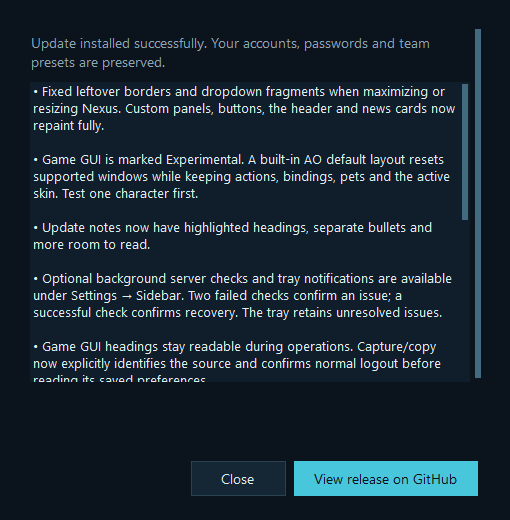
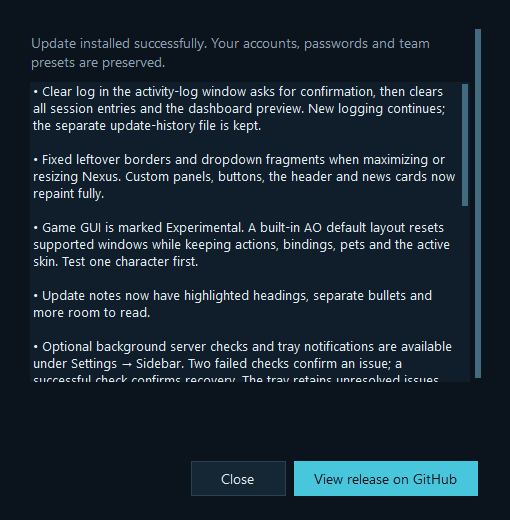
Add confirmed clearing of the session activity log

diff --git a/src/Launcher/LogViewer.cs b/src/Launcher/LogViewer.cs
@@ -20,6 +20,9 @@ namespace AOLauncher
         private readonly Timer refresh = new Timer { Interval = 150 };
         private string source = "";
         private string lastSearch = "";
+        private readonly Button clearLog = Theme.Button(T("Clear log…"));
+        internal Action ClearLogRequested;
+        internal Func<bool> ConfirmClearLog;
 
         internal LogViewer()
         {
@@ -33,7 +36,7 @@ namespace AOLauncher
             var layout = new TableLayoutPanel { Dock = DockStyle.Fill, Padding = new Padding(16), ColumnCount = 1, RowCount = 3 };
             layout.RowStyles.Add(new RowStyle(SizeType.Absolute, 44));
             layout.RowStyles.Add(new RowStyle(SizeType.Percent, 100));
-            layout.RowStyles.Add(new RowStyle(SizeType.Absolute, 30));
+            layout.RowStyles.Add(new RowStyle(SizeType.Absolute, 44));
             var toolbar = new TableLayoutPanel { Dock = DockStyle.Fill, Margin = Padding.Empty, ColumnCount = 3, RowCount = 1 };
             toolbar.ColumnStyles.Add(new ColumnStyle(SizeType.AutoSize));
             toolbar.ColumnStyles.Add(new ColumnStyle(SizeType.Percent, 100));
@@ -48,10 +51,12 @@ namespace AOLauncher
             var frame = new NexusPanel { Dock = DockStyle.Fill, Padding = new Padding(10), Margin = Padding.Empty, BackColor = TerminalBackground };
             output.AccessibleName = T("Activity log");
             frame.Controls.Add(SlimScrolling.Wrap(output));
-            var footer = new TableLayoutPanel { Dock = DockStyle.Fill, ColumnCount = 2, RowCount = 1, Margin = Padding.Empty };
-            footer.ColumnStyles.Add(new ColumnStyle(SizeType.Percent, 100)); footer.ColumnStyles.Add(new ColumnStyle(SizeType.AutoSize));
+            var footer = new TableLayoutPanel { Dock = DockStyle.Fill, ColumnCount = 3, RowCount = 1, Margin = Padding.Empty };
+            footer.ColumnStyles.Add(new ColumnStyle(SizeType.Percent, 100)); footer.ColumnStyles.Add(new ColumnStyle(SizeType.AutoSize)); footer.ColumnStyles.Add(new ColumnStyle(SizeType.AutoSize));
             follow.Text = T("Follow new entries"); follow.Margin = new Padding(8, 6, 0, 0);
             footer.Controls.Add(count, 0, 0); footer.Controls.Add(follow, 1, 0);
+            clearLog.Name = "clearActivityLog"; clearLog.Margin = new Padding(12, 6, 0, 0); clearLog.Enabled = false;
+            clearLog.Click += (sender, e) => ClearActivity(); footer.Controls.Add(clearLog, 2, 0);
             layout.Controls.Add(toolbar, 0, 0); layout.Controls.Add(frame, 0, 1); layout.Controls.Add(footer, 0, 2);
             Controls.Add(layout);
             search.TextChanged += (sender, e) => QueueRefresh();
@@ -61,6 +66,16 @@ namespace AOLauncher
         }
 
         internal void SetLogText(string text) { source = text ?? ""; QueueRefresh(); }
+        private void ClearActivity()
+        {
+            if (source.Length == 0) return;
+            bool confirmed = ConfirmClearLog != null ? ConfirmClearLog() : NexusMessageBox.Show(this,
+                T("Clear all activity log entries for this session, including entries hidden by the search? This cannot be undone. New activity will continue to appear. The separate update-history file is kept."),
+                T("Clear activity log?"), MessageBoxButtons.OKCancel, MessageBoxIcon.Question, MessageBoxDefaultButton.Button2) == DialogResult.OK;
+            if (!confirmed) return;
+            ClearLogRequested?.Invoke();
+            source = ""; search.Clear(); RefreshLog();
+        }
         internal void RefreshLanguage() { NexusStrings.Retranslate(this); RefreshLog(); }
         private void QueueRefresh() { if (!refresh.Enabled) refresh.Start(); }
         private void RefreshLog()
@@ -82,6 +97,7 @@ namespace AOLauncher
                 SendMessage(output.Handle, 0x00B6, IntPtr.Zero, new IntPtr(firstLine - currentLine));
             }
             count.Text = F("{0} of {1} log entries", matches.Length, all.Length);
+            clearLog.Enabled = source.Length > 0;
         }
         protected override bool ProcessCmdKey(ref Message msg, Keys keyData)
         {

diff --git a/src/Launcher/NexusStrings.cs b/src/Launcher/NexusStrings.cs
@@ -75,6 +75,9 @@ namespace AOLauncher
             { "TEAM SETUP", "HOLDSAMMENSÆTNING" },
             { "Team presets", "Team-presets" },
             { "Activity log", "Aktivitetslog" },
+            { "Clear log…", "Ryd log…" },
+            { "Clear activity log?", "Ryd aktivitetslog?" },
+            { "Clear all activity log entries for this session, including entries hidden by the search? This cannot be undone. New activity will continue to appear. The separate update-history file is kept.", "Ryd hele aktivitetsloggen for denne session, inklusive poster skjult af søgningen? Det kan ikke fortrydes. Ny aktivitet vises fortsat. Den separate fil med opdateringshistorik bevares." },
             { "Minimize to tray?", "Minimer til systembakken?" },
             { "Quit AO Nexus?", "Afslut AO Nexus?" },
             { "Nexus will keep running in the Windows system tray and disappear from the taskbar and Alt+Tab. Click its tray icon to return. Login activity continues.", "Nexus fortsætter i Windows-systembakken og skjules fra proceslinjen og Alt+Tab. Klik på bakkeikonet for at vende tilbage. Login-aktivitet fortsætter." },

diff --git a/src/Launcher/MainForm.cs b/src/Launcher/MainForm.cs
@@ -1888,10 +1888,19 @@ namespace AOLauncher
             if (logViewer == null || logViewer.IsDisposed)
             {
                 logViewer = new LogViewer();
+                logViewer.ClearLogRequested = ClearActivityLog;
                 logViewer.SetLogText(activityLog.ToString());
                 logViewer.Show(this);
             }
             else { if (logViewer.WindowState == FormWindowState.Minimized) logViewer.WindowState = FormWindowState.Normal; logViewer.Activate(); }
+        }
+
+        private void ClearActivityLog()
+        {
+            activityLog = new StringBuilder();
+            activityLogBytes = 0;
+            log.Clear();
+            if (logViewer != null && !logViewer.IsDisposed) logViewer.SetLogText("");
         }
 
         private void AppendLog(string message)

diff --git a/src/Launcher/Properties/AssemblyInfo.cs b/src/Launcher/Properties/AssemblyInfo.cs
@@ -6,6 +6,6 @@ using System.Runtime.InteropServices;
 [assembly: AssemblyCompany("Luckyspawn")]
 [assembly: AssemblyCopyright("Enhanced by Luckyspawn")]
 [assembly: AssemblyProduct("AO Nexus")]
-[assembly: AssemblyVersion("1.1.3.0")]
-[assembly: AssemblyFileVersion("1.1.3.0")]
+[assembly: AssemblyVersion("1.1.4.0")]
+[assembly: AssemblyFileVersion("1.1.4.0")]
 [assembly: ComVisible(false)]

diff --git a/README.md b/README.md
@@ -2,15 +2,15 @@
 
 **A launcher for your accounts, characters and teams across Anarchy Online servers.**
 
-AO Nexus **v1.1.3** brings separate game installations, login servers, saved character selections and server news into one Windows app. It includes presets for Funcom AO, Project Rubi-Ka and AO Rebirth, and lets you add your own server entries.
+AO Nexus **v1.1.4** brings separate game installations, login servers, saved character selections and server news into one Windows app. It includes presets for Funcom AO, Project Rubi-Ka and AO Rebirth, and lets you add your own server entries.
 
 Based on [AOQuickLauncher](https://gitlab.com/never-knows-best/aoquicklauncher) by **never-knows-best and contributors**. Enhanced by **Luckyspawn**.
 
 [Download a release](https://github.com/RazRn/AO-Nexus/releases) · [Source repository](https://github.com/RazRn/AO-Nexus) · [Player guide](dist/README.txt)
 
-![AO Nexus dashboard with a saved team, accounts grouped by server, account details and server news](docs/images/published/launcher-overview-fa896240ed8885b2.png)
+![AO Nexus dashboard with a saved team, accounts grouped by server, account details and server news](docs/images/published/launcher-overview-2bad011c9747c386.png)
 
-Screenshots use example accounts and offline news fixtures, with no personal accounts or passwords. All guide screenshots were regenerated from v1.1.3.
+Screenshots use example accounts and offline news fixtures, with no personal accounts or passwords. All guide screenshots were regenerated from v1.1.4.
 
 ## What it does
 
@@ -54,7 +54,7 @@ AO Nexus launches supported Windows AO clients. It does not install or patch the
 
 Choose **Game GUI · Experimental** at the top of Nexus. Test one character first. The manager has separate **Layouts**, **Skins** and **Backups** tabs. Its character selection is independent of your login selection and team presets.
 
-![Layout templates and an independent character selection for applying or rolling out a template](docs/images/published/gui-layouts-0e3f3e3aee81dd21.png)
+![Layout templates and an independent character selection for applying or rolling out a template](docs/images/published/gui-layouts-162f595a576102a1.png)
 
 Capture a saved setup from a character or copy directly from one character to others. **Window layout** is selected initially; **Hotbars**, **Key bindings** and **Pet names** are optional. Hotbar actions may reference items or nanos that another character does not have. **Roll out to all…** reviews all configured target characters before applying the chosen components.
 
@@ -70,7 +70,7 @@ For a reset, select the built-in **AO default layout**, select characters, then 
 
 Skins affect a shared installation's preferences. Select **Default**, import a complete skin ZIP, or download a Notum Dovvetech/Darktech theme from the author's published sources. Choose the correct classic/new-engine variant. Downloads install separate folders and do not activate the skin until you choose **Apply skin**. Skin rollout copies to each configured preference installation once. The skin archives are not bundled in Nexus.
 
-![Backup manager for character layouts and installation skin selection](docs/images/published/gui-backups-14c7e39c44d91709.png)
+![Backup manager for character layouts and installation skin selection](docs/images/published/gui-backups-2cc32f922b22936f.png)
 
 Nexus asks before relogging affected online clients, requests `/quit`, waits for actual exit, backs up the changed data and restarts the identified clients after success. It never forces game processes closed. Character layouts affect the selected characters; shared skin changes can require other clients to relog. Unknown clients must be closed manually when Nexus cannot rule them out safely. Failed batches attempt to restore earlier changes and report any recovery failures. Keep affected clients closed during the file operation.
 
@@ -171,7 +171,7 @@ Open **Settings → Accounts → Manage login servers…** to rename servers, ed
 
 ![Login server editor showing connection settings, simultaneous account and character limits, and total character slots](docs/images/published/server-settings-515e6f4b4c4ee421.png)
 
-These are the defaults in the **v1.1.3 source**, rather than a live statement of each server's current rules or availability. Existing profiles can retain their saved values.
+These are the defaults in the **v1.1.4 source**, rather than a live statement of each server's current rules or availability. Existing profiles can retain their saved values.
 
 | Server preset | Login address | Max. accounts | Chars per account | Character slots |
 | --- | --- | ---: | ---: | ---: |
@@ -249,7 +249,7 @@ The game handles its normal logout countdown. Combat, zoning, movement or cancel
 
 **Existing game windows need one normal restart through v1.0.15 or later** to enable quit control. The same applies to a client opened through **Create new char**: save/import the character and start it normally once. Unsupported or untracked clients are skipped with an explanation. AOSharp is not required. Closing Nexus itself still leaves all game windows open.
 
-For implementation details and test coverage, see [Quit control](docs/Camp-Control.md). See [What's new in v1.1.3](docs/Whats-New-1.1.3.md) for the English feature list.
+For implementation details and test coverage, see [Quit control](docs/Camp-Control.md). See [What's new in v1.1.4](docs/Whats-New-1.1.4.md) for the English feature list.
 
 ## Create a new character
 
@@ -308,7 +308,7 @@ Use **Refresh** to fetch again; automatic refresh runs every 15 minutes while Se
 
 **Server health** is independently optional in Settings. When both are enabled they share tabs on the right; turning both off gives the account list more space. Choose the displayed server to see login, world/zone, chat and official-report checks. It refreshes every 60 seconds while visible by default. In Settings → Sidebar, enable background checks for all selected servers, including while minimized or on another tab. Optional tray notifications enable background checks and report confirmed issues and recovery; the tray retains unresolved issue status. Two failed checks confirm an issue (usually 1–2 minutes); one positive check confirms recovery. Windows controls popup duration. There is a 15-second minimum between check batches. There is no manual Refresh button; one enabled server is shown as a plain name. **Reachable** means a TCP connection from your PC, not a successful game login. Missing checks or stale reports are **Unknown**. See [endpoints, sources and limitations](docs/Server-Health.md).
 
-![Server health with synthetic reachability and official-report examples](docs/images/published/server-health-2cefbd34265f4bd1.png)
+![Server health with synthetic reachability and official-report examples](docs/images/published/server-health-73b8e2cdda054e79.png)
 
 Settings are divided into four tabs:
 
@@ -328,9 +328,11 @@ Under **Settings → General → Language**, choose **Automatic (system language
 
 ### Activity log
 
-The compact terminal-style log uses a dark background and monospace green text. **Open log…** opens a resizable window that receives new entries while you use Nexus. Type in **Search** to filter lines by literal text, ignoring case; **Clear search** restores all entries. **Ctrl+F** focuses search. Turn off **Follow new entries** to read or select existing text. The viewer is read-only and only shows this session's retained log; closing it does not stop login activity. The existing bounded log clears after roughly 100,000 characters.
+The compact terminal-style log uses a dark background and monospace green text. **Open log…** opens a resizable window that receives new entries while you use Nexus. Type in **Search** to filter lines by literal text, ignoring case; **Clear search** restores all entries. **Ctrl+F** focuses search. Turn off **Follow new entries** to read or select existing text. The viewer is read-only and only shows this session's retained log; closing it does not stop login activity. Retention defaults to 5 MB and is adjustable under Settings → Updates.
 
-![Searchable activity log showing matching entries from a synthetic session](docs/images/published/activity-log-2a39788bcbc07499.png)
+**Clear log…** asks for confirmation before clearing the complete session history, including entries hidden by a search, and the main-window preview. Cancel preserves it. New activity continues normally afterward. The activity log is held in memory; the separate update-history file is kept.
+
+![Searchable activity log showing matching entries from a synthetic session](docs/images/published/activity-log-8e4684200c212f10.png)
 
 ### GitHub updates
 
@@ -340,18 +342,18 @@ From v1.0.18, use **Settings → Updates → Check for updates…**. You can als
 
 Choose **Install and restart** after reviewing the version and release notes. Nexus downloads the release ZIP from `RazRn/AO-Nexus`, verifies GitHub's SHA-256 digest, the executable checksum and version, and stages the EXE. A separate staged copy waits for Nexus to close, replaces the installed executable, keeps a backup beside it, and reopens it. Active launcher logins or character detection must finish or be stopped first; existing game windows stay open. Updates require write access to the installation folder and do not request administrator privileges. Save pending Settings edits before installing.
 
-![Update dialog showing the installed version and stable release check](docs/images/published/app-updates-52c065ebcaa64319.png)
+![Update dialog showing the installed version and stable release check](docs/images/published/app-updates-644e960f4c81f6e1.png)
 
 Update checks and downloads are reported in the activity log. After a successful installation, the restarted app reports the new version and opens a **What's new** window once. Its release summary is bundled with that version in English and Danish, works offline, and does not appear on ordinary startups. A persistent history is kept in `%LOCALAPPDATA%\AONexus\Updates\update-history.log`. Both the session activity log and update history default to 5 MB each, adjustable from 1–100 MB under **Settings → Updates**. Oldest entries are trimmed; reducing the limit also trims existing update history. Completed update stages are removed after startup; abandoned stages are retried once older than 24 hours. Active or locked stages are left alone and retried on a later startup. Only the latest previous executable is retained for recovery. Cached login runtimes remain because game clients may still use them. Checks happen once per startup when enabled, or when you press Check for updates; there is no periodic background poll.
 
-![One-time release summary after a successful update](docs/images/published/whats-new-d47a50d1e0f71dba.png)
+![One-time release summary after a successful update](docs/images/published/whats-new-52d38b1a1481cad5.png)
 
 The updater uses public GitHub Releases without a GitHub login or token. It ignores prereleases and does not downgrade. Network or verification failures leave the installed executable untouched. Installation uses atomic replacement; the old EXE remains as an `AONexus.exe.previous-*` backup. Staging files and the installation result are under `%LOCALAPPDATA%\AONexus\Updates`. Profiles and credentials are not included in downloads or sent to GitHub. The SHA-256 check authenticates the download against GitHub's release metadata; it is not a separate publisher signature. Trust remains with this repository and its release permissions.
 
 Older versions need one manual update to v1.0.18 or later before they can use this feature. Manual ZIP installation remains available.
 
 
-![Readable update notes using an offline example of a future release](docs/images/published/update-available-76e45c186b9deedf.png)
+![Readable update notes using an offline example of a future release](docs/images/published/update-available-59703e53c7a2148b.png)
 
 ### Privacy and security
 

diff --git a/docs/images/SCREENSHOTS.md b/docs/images/SCREENSHOTS.md
@@ -1,30 +1,30 @@
 # Guide screenshot provenance
 
-Generated from AO Nexus 1.1.3.0 using Capture-GuideScreenshots.ps1.
+Generated from AO Nexus 1.1.4.0 using Capture-GuideScreenshots.ps1.
 
 Synthetic accounts, empty password fields, offline news and an offline update fixture. All twenty-six README images are rendered from the actual controls.
 
 - gui-default-layout.png: d73ad3a0d8e73da4194c5a8b003fb9b2ffcf18eaf5bcec50379dc4e2bdd8a5c6
-- gui-layouts.png: 0e3f3e3aee81dd211afa2cbf4195e27f6500bbb62cbb79c0af23562646de249c
+- gui-layouts.png: 162f595a576102a1188c196326315398bd16370184f36648e99761c95f3a21bf
 - gui-capture.png: 94905ffee7ae65e3c667bf3fbeafb01063430e883655d5524fe59d08250492ee
 - gui-skins.png: a88402fac3a25e3f4ffb5761476de51ea0e489c8d3bce6436ab8674c282f97b0
-- gui-backups.png: 14c7e39c44d917091678d205511497e15d4a01ddce1d55a381a49fed942cc5d1
+- gui-backups.png: 2cc32f922b22936fcd33da35d3fef14b2cede547b35493a74f0b1441337b534b
 - health-endpoints.png: a91397f29692584f48170ae60fbb43a6c09c8c2c37a3b44d56e0105b13a8a861
-- server-health.png: 2cefbd34265f4bd177351893b15f6aa072e94102d2e3f3a6cc5b788f943592bf
+- server-health.png: 73b8e2cdda054e79b4cf9ffd3ffa53c04d4d8a484d129ff6d081156864c9d0f0
 - settings-accounts.png: 3991485f41a3a1c2e7e582f737d654323a7b2fbc745762f309b34a08a5f05ca7
 - settings-sidebar.png: 8b6b44f4c2d4dd9e99f4cf5d8a21bee9808b5e56ee708bd3b687f2a53b68fbb2
 - settings-updates.png: 5273a54583d2fc08e0d4e94a3a08532e5e1954b5c484c90303cfc18217a13205
 - privacy-security.png: ec20ac40549d140bd3fa199aa8fc0e4c7c21949f2a62915c6b75294709a18662
-- update-available.png: 76e45c186b9deedfa55f5a157b4ac313c53976ba343e5abf2f3d62847f8c754e
-- launcher-overview.png: fa896240ed8885b263fec4998c23f98eb214be7d4e3adbbb582bee1b64feb149
+- update-available.png: 59703e53c7a2148b2857db65fbeeec448e8e71dc133b4c60cc6591dd20e1e471
+- launcher-overview.png: 2bad011c9747c386937ba31ac91db88b642f214c82da28d9583223e1301f1b93
 - preset-shortcuts.png: 23c9a34b290b1ad937b660679477e96380b1c2c654fc96d2a9ca94ab7f7f6d9c
 - preset-create.png: 67f56a93bcdda26427876982e181bfde9f5bb58a9fdff19d58d41fc335de81fc
-- activity-log.png: 2a39788bcbc0749915ac16018932f8d2953ffa6690b8a1080b9da0fc7923dd11
+- activity-log.png: 8e4684200c212f10111fae4d9d297af0f409e714704da401f0b774bdaec3e790
 - settings.png: c214162fda7d6ed592eee829b686583023f24ef0c754e92a18bb4eb0f55f80fe
-- app-updates.png: 52c065ebcaa643191e89b116041a456dc468246e0a47792e6db2446e400c34ee
+- app-updates.png: 644e960f4c81f6e191d8af983e03e2eb83413dbefc248514f45102a1dc5ee4de
 - minimize-confirmation.png: 0cb14b5023ddf31f88673330dfd9d8b31d2a963241e4ff883338f8ac4b1696e5
 - quit-confirmation.png: dce9c21828570945006021e83c3b67de735ebc21ac01a79ad89b14113b2a08ec
-- whats-new.png: d47a50d1e0f71dba41b024524f8fa7888474a28fca569f1ec3347e0e065d4553
+- whats-new.png: 52d38b1a1481cad588f15f1426e7e300616f3da0509186d1789ce365af5e87ac
 - account-setup.png: de6013166163a75d62c6a86e7cb6c6742790e5cf84e51e9879d827e6a050e3d9
 - game-and-server.png: ac3a9d7ee12fc564ed667ed75505c90f908ca977eeb4b2d8f158f16e92ed5c22
 - server-settings.png: 515e6f4b4c4ee4216e31c9aa581c8898927f2668a533712af2bec8ec87240853

diff --git a/docs/Whats-New-1.1.4.md b/docs/Whats-New-1.1.4.md
@@ -1,0 +1,7 @@
+# AO Nexus v1.1.4 — Clear activity log
+
+The activity-log window now has **Clear log…**. Confirmation defaults to Cancel. Confirming clears the entire session history, including entries hidden by a search, resets the filter and updates the main-window preview. New activity continues to appear normally.
+
+The activity log is stored in memory, so this does not delete a disk file. The separate persistent update-history file remains unchanged. Clearing is not reversible.
+
+Verified cancellation, filtered clearing, both log views, byte-count reset, reopening and new entries with synthetic data. Guide screenshots are refreshed. All [v1.1.2 features](Whats-New-1.1.2.md) and the [resize fix](Whats-New-1.1.3.md) remain included; Game GUI is experimental.
